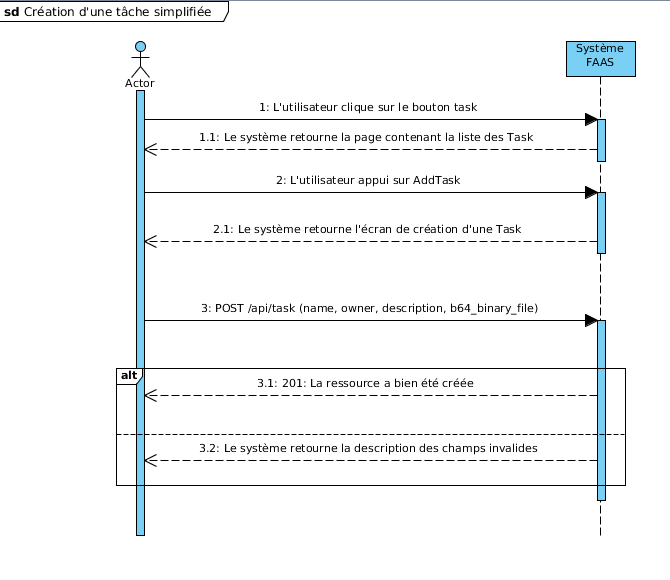
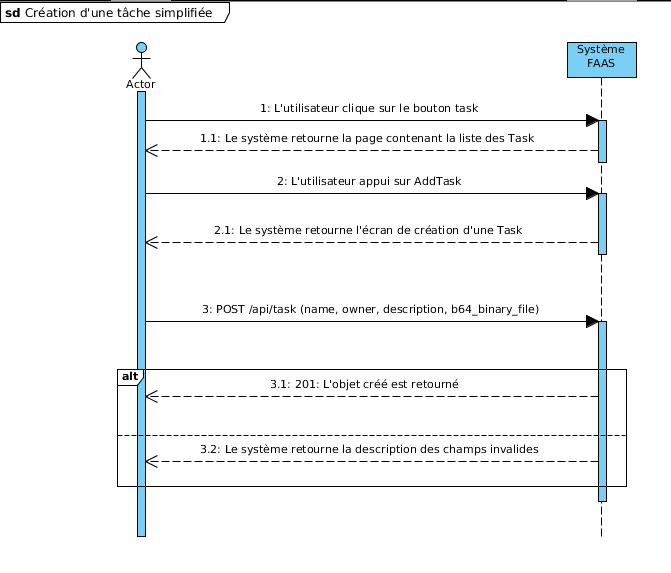
2e présentation

diff --git a/presentation.md b/presentation.md
@@ -5,9 +5,6 @@ class: center, middle
 ##### Frédéric Vachon, Martin Grogan et Benjamin Rosa
 
 ---
-# TODO : Plan de la présentation
-
----
 
 # Fuzzing as a service (FAAS)
 
@@ -64,43 +61,45 @@ class: center, middle
 * Préparer l’environnement de développement	
 	* Créer un conteneur avec React JS et un serveur web :	6 heures	
 	* Créer un conteneur avec Django pour l’API REST :	4 heures	
-	* Créer un conteneur pour contenir la base de donnée :	4 heures	
-	* Assembler les conteneurs en utilisant Docker-Compose :	1 heures	
-	* Écrire la documentation :	1 heures	
+	* Créer un conteneur pour contenir la base de donnée :	4 heures
+	* Assembler les conteneurs en utilisant Docker-Compose :	1 heure
 
-* Se connecter et se déconnecter sur son compte utilisateur	
-	* Front-end : implémenter l’écran d’interface permettant de se connecter à l’application :	5 heures	
-	* UX : créer le design de l’écran de connection :	1 heures	
-	* Back-end : créer le service d’authentification :	8 heures	
-	* Écrire la documentation :	1 heures	
+* Créer un compte utilisateur	
+	* UX: créer le design de l’écran de création de compte :	1 heure
+	* Front-end : implémenter l’écran de création de compte :	4 heures	
+	* Back-end : créer le service de création de compte, créer une table utilisateur dans la base de donnée :	5 heures	
+
 
 ---
 
 # Sprint backlog (suite)
 
-* Créer un compte utilisateur	
-	* UX: créer le design de l’écran de création de compte :	1 heures	
-	* Front-end : implémenter l’écran de création de compte :	4 heures	
-	* Back-end : créer le service de création de compte, créer une table utilisateur dans la base de donnée :	5 heures	
-	* Écrire la documentation :	1 heures	
+* Se connecter et se déconnecter sur son compte utilisateur	
+	* Front-end : implémenter l’écran d’interface permettant de se connecter à l’application :	5 heures	
+	* UX : créer le design de l’écran de connection :	1 heure
+	* Back-end : créer le service d’authentification :	8 heures	
 
 * Créer une tâche de fuzzing simplifié	
-	* UX: créer le design de l’écran création de tâche de fuzzing :	1 heures	
-	* Front-end : implémenter l’écran de création de tâche :	5 heures	
+	* UX: créer le design de l’écran création de tâche de fuzzing :	1 heure
+	* Front-end : implémenter l’écran de création de tâche :	5 heures
 	* Back-end : créer le service de création de tâche, création d’une table tache dans la base de donnée :	8 heures	
-	* Écrire la documentation :	1 heures	
 
 ---
-
-# Créer une tâche simplifiée
+## Use case: Créer une tâche simplifiée
 
 
 1. L’utilisateur se trouve sur l’écran d’accueil de l’application et clique sur le bouton Task.
+
 2. Le système retourne un écran contenant la liste des Task
+
 3. L’utilisateur appuie sur le bouton Add task
+
 4. Le système retourne l’écran de création de tâche
+
 5. L’utilisateur entre les informations (nom, description) et téléverse un fichier binaire puis appuie sur le bouton ok
+
 6. Le serveur valide les champs et crée une nouvelle tâche dans la base de donnée puis renvoie un code de succès
+
 7. Le système affiche l’écran d’accueil
 
 ---
@@ -111,7 +110,7 @@ class: center, middle
 
 ---
 
-# Authentification
+# Use case: Authentification
 
 1. le Visiteur remplit les champs suivants et clique sur le bouton : 
  - Nom utilisateur
@@ -124,29 +123,64 @@ class: center, middle
 
 ---
 
-# Diagramme de classe d'une tâche
+# Contrats simplifiés
+
+* Authentification d'un utilisateur
+	* POST /api/auth/login (username: String, email: String, password: String)
+	* Retourne le code 200 et un jeton (String)
+	* Préconditions: Username et password requis
+	* Postcondition: Un token est créé dans la base de données
+
+* Créer une tâche de fuzzing
+	* POST /api/task (name: String, owner: String, description: String, b64_binary_file: String)
+	* Retourne code 201 et l'objet créé
+	* Précondition: owner et b64_binary_file requis
+	* Postcondition: Nouvelle tâche créé dans la base de données
+
+---
+
+# Diagramme de classe
 
 ![](./img/task.png)
 
 ---
 
-# TODO : Revue de sprint
+### Revue de sprint
 
+#### Revue technique
+
+\+ Tâches accomplies dans les temps prévus
+
+\- Complexité de l'architecture système : Temps considérable de mise en place
+
+\- Tergiversation sur les choix technologiques
+
+
+#### Revue gestion
+
+\+ Bon transfert de connaissance entre les membres de l'équipe
+
+\- Commencement tardif du travail
+
+#### Améliorations prévues
+
+* Commencer le travail dès le jour 1 du sprint
+* Prévoir des heures pour se former sur les technologies
 ---
 
-# Plan du prochain sprint
+### Plan du prochain sprint
 
-1. En tant qu’utilisateur je peux démarrer une tâche de fuzzing en définissant une grammaire de base pour injecter des données dans un programme afin de pouvoir le tester à travers une série d’attaque de type brute force.
+1. Démarrer une tâche de fuzzing en définissant une grammaire de base pour générer les données à injecter
+	- 30 heures
 
-2. En tant qu’utilisateur je peux fuzzer un programme via l’entrée standard afin de pouvoir tester et détecter d’autres failles potentielles de mon programme.
+2. Fuzzer un programme via l’entrée standard afin de pouvoir tester et détecter d’autres failles potentielles de mon programme.
+	- 10 heures
 
-3. En tant qu’utilisateur je peux consulter la liste des rapports de crash afin de pouvoir avoir rapidement un point de vue global sur les rapports émis par les tâches de fuzzing.
+3. Consulter la liste des rapports de crash
+	- 20 heures
 
-4. En tant qu’utilisateur je peux consulter la liste des tâches de fuzzing afin de pouvoir avoir rapidement un point de vue global sur les tâches créées ainsi que leurs statuts.
-
----
-
-# TODO : Sprint backlog initial
+4. Consulter la liste des tâches de fuzzing
+	- 10 heures
 
 ---
 
